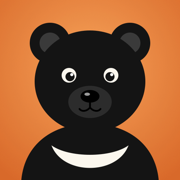
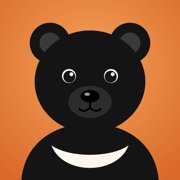
アイコンの黒目を大きく、白目を細く

Changed region(s): [[0.5556, 0.3611, 0.6667, 0.4722], [0.3333, 0.3611, 0.4444, 0.4722]]

diff --git a/sw.js b/sw.js
@@ -1,7 +1,7 @@
 // Service Worker：全アセットを事前にキャッシュし、以後はキャッシュから返す（cache-first）。
 // ファイル（音声・phrases.json・コード）を差し替えて配信し直すときは VERSION を上げること。
 
-const VERSION = 'v12';
+const VERSION = 'v13';
 const CACHE = `kuma-gaya-${VERSION}`;
 
 const CORE = [
